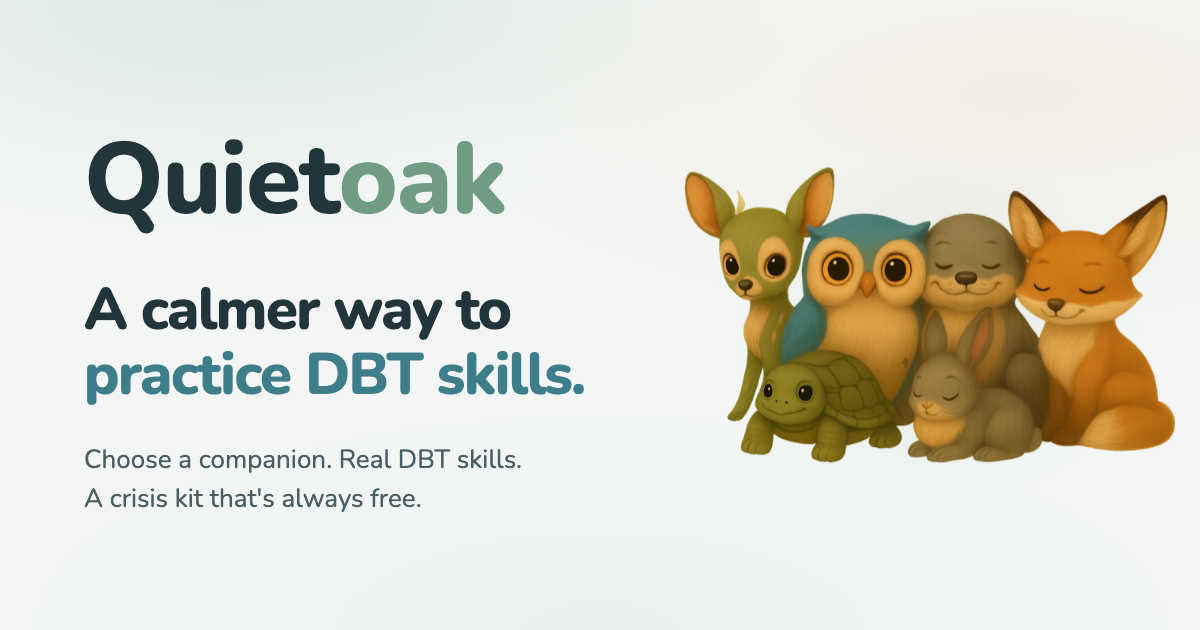
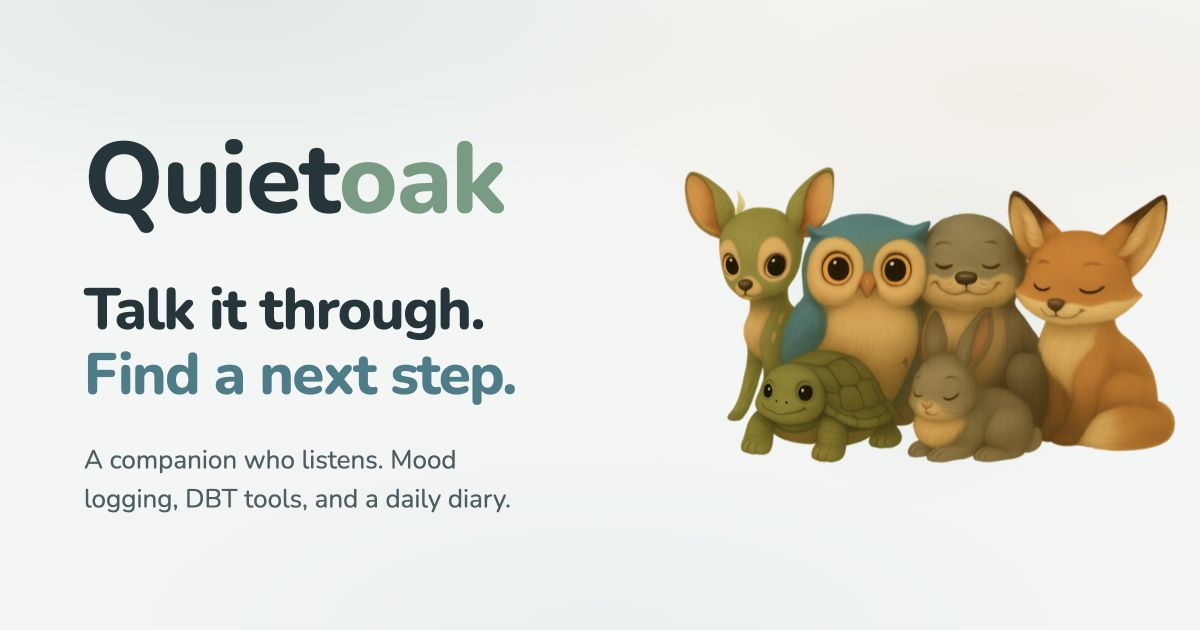
Show Quietoak conversation support and logging across the website

diff --git a/quietoak/index.html b/quietoak/index.html
@@ -6,25 +6,25 @@
   
   <meta name="color-scheme" content="light">
   <meta name="theme-color" content="#F3F6F5">
-  <title>Quietoak — DBT skills app with diary card &amp; companion</title>
-  <meta name="description" content="An iOS app for practicing DBT skills with a warm companion you choose — real DBT skills, a one-minute diary card, and a crisis kit that's always free.">
+  <title>Quietoak — AI companion, DBT tools &amp; diary</title>
+  <meta name="description" content="Talk through what’s happening with an AI companion that remembers you. Support in the moment, mood logging, DBT tools, and a diary to reflect over time.">
   <meta name="robots" content="index, follow">
   <link rel="canonical" href="https://hypersage.ai/quietoak/">
 
   <meta property="og:type" content="website">
-  <meta property="og:title" content="Quietoak — A calmer way to practice DBT skills.">
-  <meta property="og:description" content="Practice DBT skills with a warm companion you choose — and who's there in the hard moments too. Crisis support is always free.">
+  <meta property="og:title" content="Quietoak — Talk it through. Find a next step.">
+  <meta property="og:description" content="Talk it through with a companion that remembers you. Support in the moment, mood logging, DBT tools, and a daily diary card. The crisis kit is always free.">
   <meta property="og:url" content="https://hypersage.ai/quietoak/">
   <meta property="og:site_name" content="Quietoak">
-  <meta property="og:image" content="https://hypersage.ai/quietoak/og-image.png?v=20260811a">
+  <meta property="og:image" content="https://hypersage.ai/quietoak/og-image.png?v=20260907a">
   <meta property="og:image:width" content="1200">
   <meta property="og:image:height" content="630">
-  <meta property="og:image:alt" content="Quietoak — a calmer way to practice DBT skills">
+  <meta property="og:image:alt" content="Quietoak — talk it through and find a next step">
   <meta name="twitter:card" content="summary_large_image">
-  <meta name="twitter:title" content="Quietoak — A calmer way to practice DBT skills.">
-  <meta name="twitter:description" content="Practice DBT skills with a warm companion you choose. The crisis kit is always free.">
-  <meta name="twitter:image" content="https://hypersage.ai/quietoak/og-image.png?v=20260811a">
-  <meta name="twitter:image:alt" content="Quietoak — a calmer way to practice DBT skills">
+  <meta name="twitter:title" content="Quietoak — Talk it through. Find a next step.">
+  <meta name="twitter:description" content="Talk it through with a companion that remembers you. Support in the moment, mood logging, DBT tools, and a daily diary card. The crisis kit is always free.">
+  <meta name="twitter:image" content="https://hypersage.ai/quietoak/og-image.png?v=20260907a">
+  <meta name="twitter:image:alt" content="Quietoak — talk it through and find a next step">
 
   <link rel="icon" type="image/png" href="quietoak-icon.png?v=20260810w">
   <link rel="apple-touch-icon" href="quietoak-icon.png?v=20260810w">
@@ -723,7 +723,7 @@
   "name": "Quietoak",
   "applicationCategory": "HealthApplication",
   "operatingSystem": "iOS",
-  "description": "An iOS app for practicing DBT skills with a warm companion you choose \u2014 real DBT skills, a one-minute diary card, and a crisis kit that's always free.",
+  "description": "An iOS AI companion for talking things through, with conversational support, mood logging, DBT tools, a daily diary card, and an always-free crisis kit.",
   "url": "https://hypersage.ai/quietoak/",
   "author": {
     "@type": "Organization",
@@ -842,8 +842,8 @@
       <div class="hero-layout">
         <div class="hero-text">
           <span class="eyebrow">Coming to iOS</span>
-          <h1>A calmer way to<br><span class="soft">practice DBT&nbsp;skills.</span></h1>
-          <p class="lede">Under the quiet oak live six gentle companions. Choose the one who gets to know <em>you</em>, remembering what you're working on between conversations. Give them a name of your own if you like. They guide your daily DBT practice, and they're right there in the hard moments too. The crisis kit is always free.</p>
+          <h1>Talk it through.<br><span class="soft">Find a next step.</span></h1>
+          <p class="lede">Choose one of six gentle AI companions and talk through what&rsquo;s going on, by text or voice. Get space to vent and support shaped by your diary and past conversations. Your companion can note how you&rsquo;re feeling and offer DBT tools when they help. Log the skills you try to your diary. The crisis kit is always free.</p>
           <div class="hero-buttons">
             <a href="mailto:support@hypersage.ai?subject=Notify%20me%20when%20Quietoak%20launches" class="btn-warm">
               <span>Get early access</span>
@@ -866,20 +866,20 @@
       <div class="how-grid">
         <div>
           <div class="section-eyebrow">How it works</div>
-          <h2>One companion, from daily practice to <em>harder days.</em></h2>
-          <p class="lede">Not a bot buried in a menu. The companion you choose and bond with for everyday practice is the same warm presence you can talk to when things get hard.</p>
+          <h2>Talk, get support, and <em>keep track.</em></h2>
+          <p class="lede">Start with what&rsquo;s happening in your life. Your companion listens, remembers the context you share, and helps you find a next step that fits the moment.</p>
           <ol class="how-steps">
             <li>
               <h3>Choose your companion</h3>
               <p>Pick one of six gentle companions, each with its own temperament. Name it, and make it yours.</p>
             </li>
             <li>
-              <h3>Practice DBT skills together</h3>
-              <p>Work through guided exercises like STOP, TIPP, and paced breathing with your companion beside you — and log a one-minute diary card.</p>
+              <h3>Talk through what&rsquo;s happening</h3>
+              <p>Vent, untangle a hard moment, or ask for help. Your companion can note your mood as you talk and bring in a DBT skill when it could help.</p>
             </li>
             <li>
-              <h3>They're there on the hard days too</h3>
-              <p>The same companion is one tap away in chat. And the Crisis Survival Kit — 988, 741741, your local lines — is always free and works offline.</p>
+              <h3>Keep track in your diary</h3>
+              <p>Save a daily diary card and log the skills you try. Recent diary entries help your companion understand your week. The Crisis Survival Kit is always free and works offline.</p>
             </li>
           </ol>
         </div>
@@ -1121,7 +1121,7 @@
         <div class="feature-card">
           <div class="icon-box"><img src="icons/feat-diary.png?v=20260810w" width="192" height="192" loading="lazy" alt=""></div>
           <h3>A one-minute diary card</h3>
-          <p>A real DBT diary card — mood, emotions, urges, and the skills you reached for — in under a minute. Tap it in or just speak it aloud, as light or detailed as you like, and look back gently over time.</p>
+          <p>A real DBT diary card — mood, emotions, urges, and the skills you reached for — in under a minute. Fill in your ratings, type or dictate a note, and log skills from guided practice. Look back gently over time.</p>
         </div>
         <div class="feature-card">
           <div class="icon-box"><img src="icons/feat-breathing.png?v=20260810w" width="192" height="192" loading="lazy" alt=""></div>
@@ -1195,7 +1195,7 @@
     <div class="container">
       <div class="section-eyebrow" style="text-align:center;">How your companion responds</div>
       <h2 style="text-align:center;">It listens first — and <em>guides when it helps.</em></h2>
-      <p class="lede" style="text-align:center; max-width: 680px; margin-left:auto; margin-right:auto;">Your companion won't push a skill every time. Often it just wants to understand — asking what's going on, validating, and giving you room to vent. When something might genuinely help, it brings a guided exercise right into the chat, never buried in a menu.</p>
+      <p class="lede" style="text-align:center; max-width: 680px; margin-left:auto; margin-right:auto;">Your companion gives you room to talk about what&rsquo;s going on, drawing on your recent diary entries and conversations. It can note the feelings you share in chat and offer a next step. When a DBT skill could help, it brings the exercise into the conversation. You can log the practice to your diary afterward.</p>
       <div class="responds-pair">
         <div class="responds-card">
           

diff --git a/index.html b/index.html
@@ -1056,14 +1056,14 @@
             <img class="app-icon" src="icons/quietoak.webp" alt="" width="58" height="58" loading="lazy">
             <div class="titleblock">
               <h3>Quietoak</h3>
-              <div class="cat">DBT Skills &amp; Diary</div>
+              <div class="cat">DBT Companion &amp; Diary</div>
             </div>
             <span class="status">iOS · Coming soon</span>
           </div>
-          <p class="desc">Practice DBT skills with a companion that remembers your diary cards and recent conversations, so the guidance stays about your week rather than the theory. A self-help tool, not therapy or crisis care.</p>
+          <p class="desc">Talk through what&rsquo;s happening with a companion that remembers you. Get support shaped by recent conversations and diary cards, with mood logging in chat and DBT tools when they help. Log the skills you try to your diary. A self-help tool, not therapy or crisis care.</p>
           <ul role="list">
-            <li>Skills organized across all four DBT modules</li>
-            <li>One-minute diary cards, progress tracking, and an offline crisis kit</li>
+            <li>Text or voice conversations with one of six companions</li>
+            <li>Practice DBT skills, track progress, and reach an offline crisis kit</li>
           </ul>
           <div class="foot">
             <a class="link" aria-label="Visit Quietoak" href="quietoak/">Visit Quietoak <span aria-hidden="true">→</span></a>
@@ -1389,8 +1389,8 @@
         </li>
         <li class="proof-card" style="--accent: var(--c-quietoak);">
           <span class="proof-head"><img src="icons/quietoak.webp" alt="" width="26" height="26" loading="lazy"><span>In Quietoak</span> <span class="availability">Coming soon</span></span>
-          <h3>Practice shaped by your week</h3>
-          <p>Diary cards and recent conversations inform the skill guidance, so practice stays connected to what you&rsquo;re working through.</p>
+          <h3>Support that remembers</h3>
+          <p>Quietoak listens to what&rsquo;s happening, draws on your diary and past conversations, and can note moods in chat. It offers DBT tools when useful; skills you try can be logged to your diary.</p>
           <a class="link" href="#product-quietoak">See Quietoak <span aria-hidden="true">&uarr;</span></a>
         </li>
         <li class="proof-card" style="--accent: var(--c-alder);">
@@ -1627,14 +1627,14 @@
     "name": "Quietoak",
     "color": "#A7D2B5",
     "availability": "Coming soon",
-    "prompt": "Which skill should I practice tonight?",
+    "prompt": "I’m anxious after an argument.",
     "context": [
       "goals · boundaries",
       "diary · check-ins",
-      "tonight’s practice"
+      "what happened"
     ],
-    "result": "Guided practice ready",
-    "detail": "A DBT skill to practice, informed by your diary cards and recent conversations.",
+    "result": "Support & mood noted",
+    "detail": "Support shaped by your diary and past talks, with how you’re feeling noted in chat.",
     "url": "/quietoak/",
     "icon": "icons/quietoak.webp",
     "inputLabel": "You ask"

diff --git a/press.html b/press.html
@@ -76,7 +76,7 @@
     <h2>The portfolio in one line each</h2>
     <ul class="oneliners">
       <li><strong>Wingmate</strong> — an AI dating coach that organizes context by connection. <a href="wingmate/index.html" aria-label="Wingmate site">Site <span aria-hidden="true">↗</span></a></li>
-      <li><strong>Quietoak</strong> — a DBT skills app with a daily diary card; not therapy or crisis care. <a href="quietoak/index.html" aria-label="Quietoak site">Site <span aria-hidden="true">↗</span></a></li>
+      <li><strong>Quietoak</strong> — an AI companion for talking things through, with mood logging, DBT tools, and a daily diary card; not therapy or crisis care. <a href="quietoak/index.html" aria-label="Quietoak site">Site <span aria-hidden="true">↗</span></a></li>
       <li><strong>CryptoSage AI</strong> — portfolio-aware market intelligence; informational, not investment advice. <a href="https://cryptosageai.io/" rel="noopener" aria-label="CryptoSage AI site">Site <span aria-hidden="true">↗</span></a></li>
       <li><strong>Saffra</strong> — an AI cooking companion that adapts prepared recipes to your kitchen. <a href="saffra/index.html" aria-label="Saffra site">Site <span aria-hidden="true">↗</span></a></li>
       <li><strong>StoryVault AI</strong> — interactive fiction where story state shapes each new page. <a href="storyvault/index.html" aria-label="StoryVault AI site">Site <span aria-hidden="true">↗</span></a></li>

diff --git a/quietoak/privacy.html b/quietoak/privacy.html
@@ -11,11 +11,11 @@
   <meta property="og:description" content="How Quietoak handles your data — what stays on your device, what's sent to generate companion replies, and how your mental-health content is protected.">
   <meta property="og:url" content="https://hypersage.ai/quietoak/privacy.html">
   <meta property="og:site_name" content="Quietoak">
-  <meta property="og:image" content="https://hypersage.ai/quietoak/og-image.png?v=20260811a">
+  <meta property="og:image" content="https://hypersage.ai/quietoak/og-image.png?v=20260907a">
   <meta property="og:image:width" content="1200">
   <meta property="og:image:height" content="630">
   <meta name="twitter:card" content="summary_large_image">
-  <meta name="twitter:image" content="https://hypersage.ai/quietoak/og-image.png?v=20260811a">
+  <meta name="twitter:image" content="https://hypersage.ai/quietoak/og-image.png?v=20260907a">
   <link rel="icon" type="image/png" href="quietoak-icon.png?v=20260810w">
   <link rel="apple-touch-icon" href="quietoak-icon.png?v=20260810w">
   <link rel="preconnect" href="https://fonts.googleapis.com">

diff --git a/quietoak/terms.html b/quietoak/terms.html
@@ -11,11 +11,11 @@
   <meta property="og:description" content="The terms for using Quietoak — a self-help DBT skills app. Not therapy, not a crisis service; your companion is an AI guide. 18+.">
   <meta property="og:url" content="https://hypersage.ai/quietoak/terms.html">
   <meta property="og:site_name" content="Quietoak">
-  <meta property="og:image" content="https://hypersage.ai/quietoak/og-image.png?v=20260811a">
+  <meta property="og:image" content="https://hypersage.ai/quietoak/og-image.png?v=20260907a">
   <meta property="og:image:width" content="1200">
   <meta property="og:image:height" content="630">
   <meta name="twitter:card" content="summary_large_image">
-  <meta name="twitter:image" content="https://hypersage.ai/quietoak/og-image.png?v=20260811a">
+  <meta name="twitter:image" content="https://hypersage.ai/quietoak/og-image.png?v=20260907a">
   <link rel="icon" type="image/png" href="quietoak-icon.png?v=20260810w">
   <link rel="apple-touch-icon" href="quietoak-icon.png?v=20260810w">
   <link rel="preconnect" href="https://fonts.googleapis.com">

diff --git a/quietoak/support.html b/quietoak/support.html
@@ -11,11 +11,11 @@
   <meta property="og:description" content="Need help with Quietoak? Email support@hypersage.ai. Crisis resources are always free and listed here too.">
   <meta property="og:url" content="https://hypersage.ai/quietoak/support.html">
   <meta property="og:site_name" content="Quietoak">
-  <meta property="og:image" content="https://hypersage.ai/quietoak/og-image.png?v=20260811a">
+  <meta property="og:image" content="https://hypersage.ai/quietoak/og-image.png?v=20260907a">
   <meta property="og:image:width" content="1200">
   <meta property="og:image:height" content="630">
   <meta name="twitter:card" content="summary_large_image">
-  <meta name="twitter:image" content="https://hypersage.ai/quietoak/og-image.png?v=20260811a">
+  <meta name="twitter:image" content="https://hypersage.ai/quietoak/og-image.png?v=20260907a">
   <link rel="icon" type="image/png" href="quietoak-icon.png?v=20260810w">
   <link rel="apple-touch-icon" href="quietoak-icon.png?v=20260810w">
   <link rel="preconnect" href="https://fonts.googleapis.com">

diff --git a/quietoak/safety.html b/quietoak/safety.html
@@ -11,11 +11,11 @@
   <meta property="og:description" content="Quietoak's published AI-companion self-harm safety protocol and crisis-referral process.">
   <meta property="og:url" content="https://hypersage.ai/quietoak/safety.html">
   <meta property="og:site_name" content="Quietoak">
-  <meta property="og:image" content="https://hypersage.ai/quietoak/og-image.png?v=20260811a">
+  <meta property="og:image" content="https://hypersage.ai/quietoak/og-image.png?v=20260907a">
   <meta property="og:image:width" content="1200">
   <meta property="og:image:height" content="630">
   <meta name="twitter:card" content="summary_large_image">
-  <meta name="twitter:image" content="https://hypersage.ai/quietoak/og-image.png?v=20260811a">
+  <meta name="twitter:image" content="https://hypersage.ai/quietoak/og-image.png?v=20260907a">
   <link rel="icon" type="image/png" href="quietoak-icon.png?v=20260810w">
   <link rel="apple-touch-icon" href="quietoak-icon.png?v=20260810w">
   <link rel="preconnect" href="https://fonts.googleapis.com">

diff --git a/tools/build_app_og.py b/tools/build_app_og.py
@@ -218,8 +218,8 @@ CARDS = {
   .art { width: 506px; height: 310px; }
 """,
         "kicker": 'Quiet<span class="oak">oak</span>',
-        "h1": 'A calmer way to<br><em>practice DBT&nbsp;skills.</em>',
-        "sub": "Choose a companion. Real DBT skills. A crisis kit that's always free.",
+        "h1": 'Talk it through.<br><em>Find a next step.</em>',
+        "sub": "A companion who listens. Mood logging, DBT tools, and a daily diary.",
     },
     "rowan": {
         "art": "art/rowan_welcome.png",
